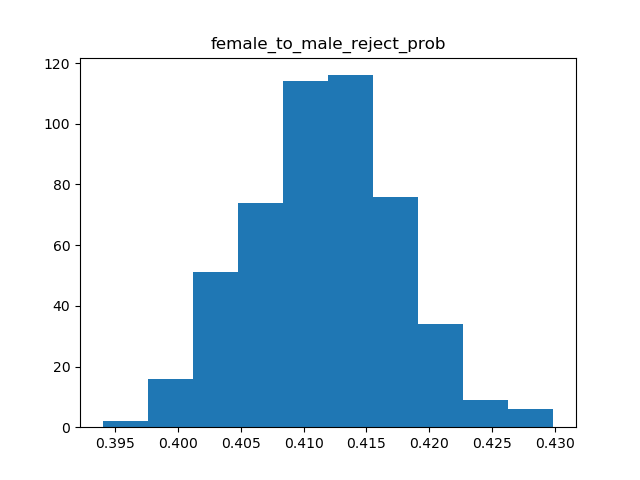
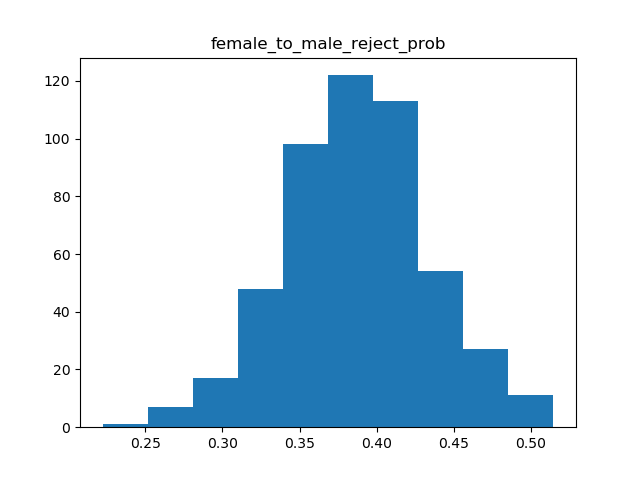
Update

diff --git a/NewDataCode/main.py b/NewDataCode/main.py
@@ -15,17 +15,24 @@ import sys
 Building model to predict the acceptance/denial
 
 """
-# ColName = 'action_taken'
-# data = get_data(ColName,nr = 100000)
-# s1 = data[data[ColName] == 1].sample(n = np.minimum(data[data[ColName] == 1].shape[0],data[data[ColName] == 3].shape[0]))
-# s2 = data[data[ColName] == 3].sample(n = np.minimum(data[data[ColName] == 1].shape[0],data[data[ColName] == 3].shape[0]))
-# d = pd.concat([s1,s2])
-# y = d[ColName]
-# X = d.drop(columns = [ColName])
-# # build_model(X,y,name = 'acceptance_denial_model',cross = 10,models = ['nvb','RandomForest','xgb','Logistic'])
 
-# # GuidedTuneModel(X,y)
-# tune_model(X,y,name = 'acceptance_denial_tuned',n_it = 50, models = ['RandomForest','xgb','Logistic'])
+orig_stdout = sys.stdout
+f = open('ModelOut.txt', 'w')
+sys.stdout = f
+
+
+ColName = 'action_taken'
+data = get_data(ColName,nr = 100000)
+s1 = data[data[ColName] == 1].sample(n = np.minimum(data[data[ColName] == 1].shape[0],data[data[ColName] == 3].shape[0]))
+s2 = data[data[ColName] == 3].sample(n = np.minimum(data[data[ColName] == 1].shape[0],data[data[ColName] == 3].shape[0]))
+d = pd.concat([s1,s2])
+y = d[ColName]
+X = d.drop(columns = [ColName])
+print("Building Plain baseline Models")
+build_model(X,y,name = 'acceptance_denial_model',cross = 10,models = ['nvb','RandomForest','xgb','Logistic','SVM'])
+print("Building Tuned Models")
+# GuidedTuneModel(X,y)
+tune_model(X,y,name = 'acceptance_denial_tuned',n_it = 50, models = ['RandomForest','xgb','Logistic'])
 
 #########################################################################################################
 
@@ -35,17 +42,17 @@ Building model to predict the acceptance/denial
 Building model to predict the denial reason
 
 """
-# ColName = 'denial_reason_1'
-# data = get_data(ColName,nr = 100000,res = 1)
-# s1 = data[data[ColName] == 1].sample(n = np.minimum(data[data[ColName] == 1].shape[0],data[data[ColName] == 3].shape[0]))
-# s2 = data[data[ColName] == 3].sample(n = np.minimum(data[data[ColName] == 1].shape[0],data[data[ColName] == 3].shape[0]))
-# d = pd.concat([s1,s2])
-# y = d[ColName]  
-# X = d.drop(columns = [ColName])
-# # build_model(X,y,name = 'denial_reason_model',cross = 10,models = ['nvb','RandomForest','xgb','Logistic'])
+ColName = 'denial_reason_1'
+data = get_data(ColName,nr = 100000,res = 1)
+s1 = data[data[ColName] == 1].sample(n = np.minimum(data[data[ColName] == 1].shape[0],data[data[ColName] == 3].shape[0]))
+s2 = data[data[ColName] == 3].sample(n = np.minimum(data[data[ColName] == 1].shape[0],data[data[ColName] == 3].shape[0]))
+d = pd.concat([s1,s2])
+y = d[ColName]  
+X = d.drop(columns = [ColName])
+build_model(X,y,name = 'denial_reason_model',cross = 10,models = ['nvb','RandomForest','xgb','Logistic','SVM'])
 
-# # GuidedTuneModel(X,y)
-# tune_model(X,y,name = 'denial_reason_tuned',n_it = 50, models = ['RandomForest','xgb','Logistic'])
+# GuidedTuneModel(X,y)
+tune_model(X,y,name = 'denial_reason_tuned',n_it = 50, models = ['RandomForest','xgb','Logistic'])
 
 #################################################################################################
 
@@ -75,7 +82,8 @@ Predict if acceptance/denial and filter that to predict denial reason
 # plt.show()
 
 #####################################################################################################
-
+sys.stdout = orig_stdout
+f.close()
 """
 
 Studying Bias and Fairness in the data with the next 100000 datapoints in 2017
@@ -201,10 +209,6 @@ female_to_male_accept = X[(X['applicant_sex'] == 1) & (X['original_sex'] == 2) &
 # male_to_female_reject = X[(X['applicant_sex'] == 2) & (X['original_sex'] == 1) & (X['new_pred'] == 3)].shape[0]
 female_to_male_reject = X[(X['applicant_sex'] == 1) & (X['original_sex'] == 2) & (X['new_pred'] == 3) & (X['old_pred'] == 1)].shape[0]
 
-# total_female_to_male = X[(X['applicant_sex'] == 1) & (X['original_sex'] == 2)].shape[0]
-# total_male_to_female = X[(X['applicant_sex'] == 2) & (X['original_sex'] == 1)].shape[0]
-
-# no_change = X[(X['applicant_sex'] ==  X['original_sex'])].shape[0]
 print(female_to_male_accept)
 # print(male_to_female_accept)
 # print(male_to_female_reject)
@@ -242,10 +246,10 @@ for i in tqdm(range(1,500)): #10257
     X['new_pred'] = monte
     X['original_sex'] = ori
     X['old_pred'] = need
-    female_to_male_accept = X[(X['applicant_sex'] == 1) & (X['original_sex'] == 2) & (X['new_pred'] == 1)].shape[0]
-    male_to_female_accept = X[(X['applicant_sex'] == 2) & (X['original_sex'] == 1) & (X['new_pred'] == 1)].shape[0]
-    male_to_female_reject = X[(X['applicant_sex'] == 2) & (X['original_sex'] == 1) & (X['new_pred'] == 3)].shape[0]
-    female_to_male_reject = X[(X['applicant_sex'] == 1) & (X['original_sex'] == 2) & (X['new_pred'] == 3)].shape[0]
+    female_to_male_accept = X[(X['applicant_sex'] == 1) & (X['original_sex'] == 2) & (X['new_pred'] == 1)& (X['old_pred'] == 3)].shape[0]
+    male_to_female_accept = X[(X['applicant_sex'] == 2) & (X['original_sex'] == 1) & (X['new_pred'] == 1)& (X['old_pred'] == 3)].shape[0]
+    male_to_female_reject = X[(X['applicant_sex'] == 2) & (X['original_sex'] == 1) & (X['new_pred'] == 3)& (X['old_pred'] == 1)].shape[0]
+    female_to_male_reject = X[(X['applicant_sex'] == 1) & (X['original_sex'] == 2) & (X['new_pred'] == 3)& (X['old_pred'] == 1)].shape[0]
 
     total_female_to_male = X[(X['applicant_sex'] == 1) & (X['original_sex'] == 2)].shape[0]
     total_male_to_female = X[(X['applicant_sex'] == 2) & (X['original_sex'] == 1)].shape[0]

diff --git a/NewDataCode/functions.py b/NewDataCode/functions.py
@@ -10,8 +10,14 @@ from xgboost import XGBClassifier
 from sklearn.model_selection import train_test_split
 from sklearn.metrics import classification_report, confusion_matrix
 from sklearn.metrics import balanced_accuracy_score
+from tqdm import tqdm
+from IPython.display import Image
+from xgboost import plot_tree
 from sklearn.metrics import accuracy_score
 from sklearn import preprocessing
+from sklearn.tree import export_graphviz
+
+from subprocess import call
 from sklearn.metrics import roc_auc_score
 from sklearn.model_selection import cross_val_score
 from sklearn.ensemble import RandomForestClassifier
@@ -25,6 +31,16 @@ import joblib
 from sklearn.model_selection import RandomizedSearchCV
 from sklearn.naive_bayes import GaussianNB
 
+def Exploratory_plots(data):
+    correlation = data.corr()
+    print(correlation)
+
+    for i in data.columns():
+        plt.hist(data[i])
+        plt.savefig(str(i)+'historgram.png')
+
+        plt.boxplot(data[i])
+        plt.savefig(str(i)+'boxplot.png')
 
 def get_data(drop1,nr = 10000,nona = 1,res = 0,year = 2017,sk = 0):
     if year == 2017:
@@ -65,26 +81,7 @@ def get_data(drop1,nr = 10000,nona = 1,res = 0,year = 2017,sk = 0):
     print(np.shape(data))
     if nona == 1:
         data = data.dropna()
-    # TODO: create a OneHotEncoder object, and fit it to all of X
 
-    # 1. INSTANTIATE
-    # enc = preprocessing.OneHotEncoder(categories='auto')
-
-    # 2. FIT
-    # enc.fit(data)
-
-    # 3. Transform
-    # enc_df = pd.DataFrame(enc.fit_transform(data[[i]]).toarray())
-    # data = data.join(enc_df)
-    # data = enc.transform(data)
-    # names = ['agency_abbr','agency_name','applicant_ethnicity_name','co_applicant_sex_name',
-    #          'co_applicant_ethnicity_name','preapproval_name','applicant_sex','county_name',
-    #          'hoepa_status_name','lien_status_name','loan_purpose_name','loan_type_name','owner_occupancy_name',
-    #          'property_type_name','purchaser_type_name','state_abbr']
-    # for i in names:
-    #     enc_df = pd.DataFrame(enc.fit_transform(data[[i]]).toarray())
-    #     data = data.join(enc_df)
-#     print(data.shape)
 #     mapping = dict(zip(data[drop1].unique(),[i for i in range(len(data[drop1].unique()))]))
 #     print(mapping)
 #     data = data.replace({ColName: mapping})
@@ -116,9 +113,9 @@ def build_model(X,y,name,cross = 5,models = ['xgb']):
     seed = 7
     test_size = 0.30
     X_train, X_test, y_train, y_test = train_test_split(X, y, test_size=test_size, random_state=seed)
-    for model1 in models:
+    for model1 in tqdm(models):
         if model1 == 'xgb':
-            print("XGBoost Classifier: \n")
+            print("\n XGBoost Classifier: \n")
             model = XGBClassifier()
             model.fit(X_train,y_train)
             pred = model.predict(X_test)
@@ -127,6 +124,8 @@ def build_model(X,y,name,cross = 5,models = ['xgb']):
             print("Cross Validation Balanced Accuracy: %.2f%% (%.2f%%)" % (results.mean()*100, results.std()*100))
             post_proc(X,model)
             Acc = results.mean()*100
+            plot_tree(model)
+            plt.savefig('xgb_model_untuned_tree.png')
         elif model1 == 'Logistic':
             print("\n Logistic Classifier: \n")
             model = LogisticRegression(solver = 'liblinear')
@@ -146,6 +145,7 @@ def build_model(X,y,name,cross = 5,models = ['xgb']):
                 for j in range(2):
                     ax.text(j, i, cm[i, j], ha='center', va='center', color='red')
             plt.show()
+            plt.savefig('logistic_model_untuned.png')
             Acc = results.mean()*100
         # elif model1 == 'auto':
         #     print("\n Auto: \n")
@@ -170,6 +170,14 @@ def build_model(X,y,name,cross = 5,models = ['xgb']):
             results = cross_val_score(model, X_train, y_train, cv=cross,scoring = 'balanced_accuracy')
             print("Cross Validation Balanced Accuracy: %.2f%% (%.2f%%)" % (results.mean()*100, results.std()*100))
             Acc = results.mean()*100
+            export_graphviz(estimator_limited, 
+                out_file='random_forest_untuned_tree.dot', 
+                feature_names = X.columns,
+                class_names = y.columns,
+                rounded = True, proportion = False, 
+                precision = 2, filled = True)
+            call(['dot', '-Tpng', 'random_forest_untuned_tree.dot', '-o', 'random_forest_untuned_tree.png', '-Gdpi=600']
+            Image(filename = 'random_forest_untuned_tree.png')
         elif model1 == 'nvb':
             print("\n Naive Bayes Classifier: \n")
             model = GaussianNB()
@@ -194,6 +202,7 @@ def build_model(X,y,name,cross = 5,models = ['xgb']):
             filename = str(name) + '.sav'
             pickle.dump(model1, open(filename, 'wb'))
             Acc_zero = Acc
+    print("Best picked model is", model1)
 if __name__ == "__main__":
     ColName = 'action_taken_name'
     data,mapping = get_data(ColName,nr = 1000)

diff --git a/NewDataCode/HyperParameterTune.py b/NewDataCode/HyperParameterTune.py
@@ -15,6 +15,8 @@ import sklearn.metrics as skm
 import pickle
 from sklearn import svm
 import joblib
+from tqdm import tqdm
+
 from sklearn.model_selection import RandomizedSearchCV
 from sklearn.model_selection import GridSearchCV
 from sklearn.naive_bayes import GaussianNB
@@ -24,8 +26,9 @@ def tune_model(X,y,name,n_it = 30, models = ['xgb']):
     seed = 7
     test_size = 0.30
     X_train, X_test, y_train, y_test = train_test_split(X, y, test_size=test_size, random_state=seed)
-    for model1 in models:
+    for model1 in tqdm(models):
         if model1 == 'Logistic':
+            print("logistic Regression \n")
             logistic = LogisticRegression()
             distributions = {
                 'C' : [1,2,3,4], 
@@ -33,11 +36,24 @@ def tune_model(X,y,name,n_it = 30, models = ['xgb']):
             }
             clf = GridSearchCV(logistic, distributions,cv = 5)
             clf.fit(X_train, y_train)
-            # print(clf.best_params_)
-            # print(clf.cv_results_)
+            print(clf.best_params_)
+            print(clf.cv_results_)
             pred = clf.predict(X_test)
             print("The best Logistic Balanced Accuracy is ",balanced_accuracy_score(y_test,pred)*100)
+            cm = confusion_matrix(y_test, pred)
+            fig, ax = plt.subplots(figsize=(8, 8))
+            ax.imshow(cm)
+            ax.grid(False)
+            ax.xaxis.set(ticks=(0, 1), ticklabels=('Predicted 0s', 'Predicted 1s'))
+            ax.yaxis.set(ticks=(0, 1), ticklabels=('Actual 0s', 'Actual 1s'))
+            ax.set_ylim(1.5, -0.5)
+            for i in range(2):
+                for j in range(2):
+                    ax.text(j, i, cm[i, j], ha='center', va='center', color='red')
+            plt.show()
+            plt.savefig('logistic_model_tuned.png')
         elif model1 == 'xgb':
+            print("\n XGBoost \n")
             model = XGBClassifier()
             distributions = {
                 'booster' : ['gbtree','gblinear','dart'],
@@ -50,9 +66,12 @@ def tune_model(X,y,name,n_it = 30, models = ['xgb']):
             clf = RandomizedSearchCV(model, distributions, random_state=0,cv = 5)
             clf.fit(X_train, y_train)
             pred = clf.predict(X_test)
+            print(clf.best_params_)
+            print(clf.cv_results_)
             print("The best XGBoost Balanced Accuracy is ",balanced_accuracy_score(y_test,pred)*100)
             Acc = balanced_accuracy_score(y_test,pred)*100
         elif model1 == 'SVM':
+            print("\n SVM \n")
             model = svm.NuSVC(gamma='auto')
             distributions = {
                 'kernel' : ['linear','rbf','poly','sigmoid'],
@@ -61,9 +80,12 @@ def tune_model(X,y,name,n_it = 30, models = ['xgb']):
             clf = RandomizedSearchCV(model, distributions, random_state=0,n_iter = n_it,cv = 5)
             clf.fit(X_train, y_train)
             pred = clf.predict(X_test)
+            print(clf.best_params_)
+            print(clf.cv_results_)
             print("The best SVM Balanced Accuracy is ",balanced_accuracy_score(y_test,pred)*100)
             Acc = balanced_accuracy_score(y_test,pred)*100
         elif model1 == 'RandomForest':
+            print("\n Random Forest \n")
             model = RandomForestClassifier()
             distributions = {
                 'n_estimators' : [50,100,150,200,250,300],
@@ -75,6 +97,8 @@ def tune_model(X,y,name,n_it = 30, models = ['xgb']):
             clf = RandomizedSearchCV(model, distributions, random_state=0,n_iter = n_it,cv = 5)
             clf.fit(X_train, y_train)
             pred = clf.predict(X_test)
+            print(clf.best_params_)
+            print(clf.cv_results_)
             print("The best Random Forest Balanced Accuracy is ",balanced_accuracy_score(y_test,pred)*100)
             Acc = balanced_accuracy_score(y_test,pred)*100
         else:
@@ -84,7 +108,7 @@ def tune_model(X,y,name,n_it = 30, models = ['xgb']):
             filename = str(name) + '.sav'
             pickle.dump(model1, open(filename, 'wb'))
             Acc_zero = Acc
-
+    print("Best picked model is", model1)
 
 
 # import sklearn.ensemble
